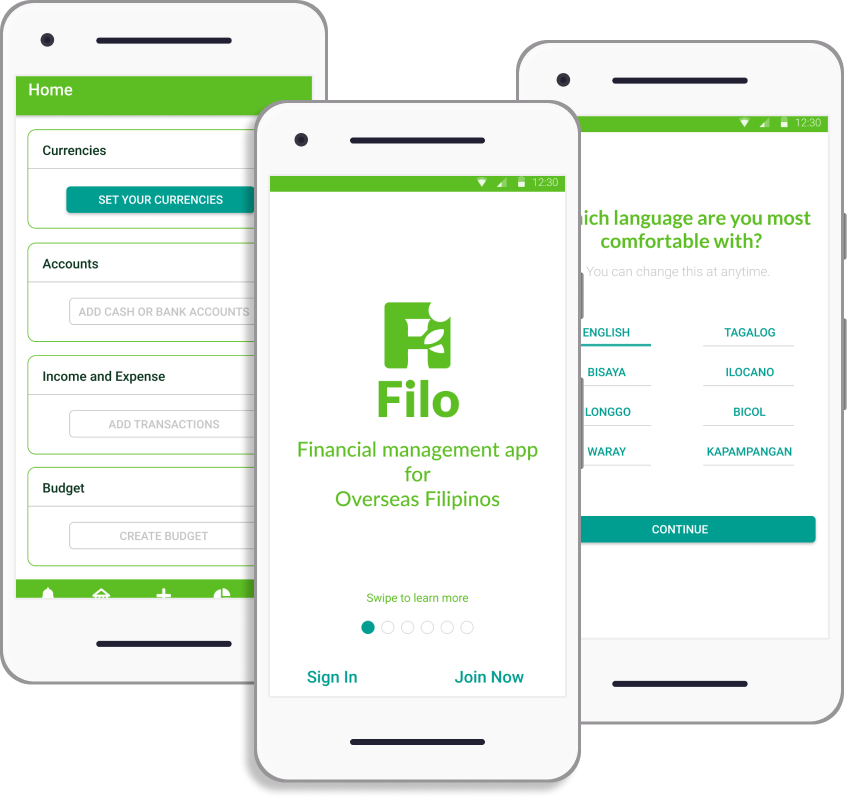
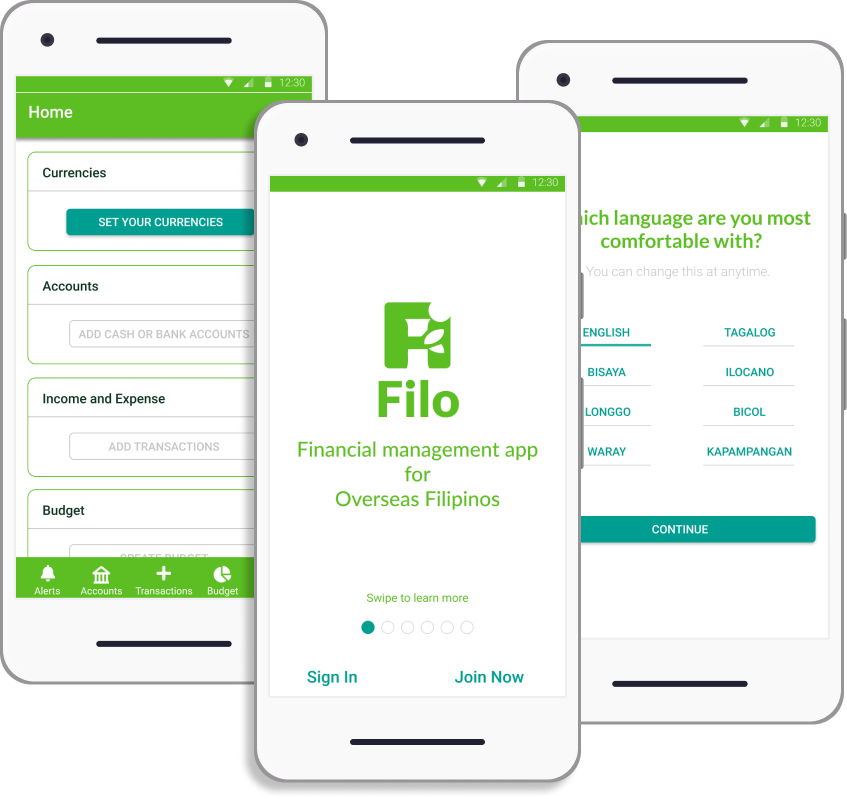
Filo: Fixed branding to testing images + buttons.

Changed region(s): [[0.0, 0.0901, 0.3684, 0.7509]]

diff --git a/filo.html b/filo.html
@@ -532,7 +532,7 @@
           </p>
 
           <!-- Button -->
-          <a href="https://docs.google.com/document/d/1Rorhu40SMTFJAB_dLQRw4ZjjH-4i4mSKrMCVeI2U9Ts/edit?usp=sharing" target="_blank" class="button">See Full Documentation</a><br><br>
+          <a href="https://docs.google.com/document/d/1Rorhu40SMTFJAB_dLQRw4ZjjH-4i4mSKrMCVeI2U9Ts/edit?usp=sharing" target="_blank" class="button laptop_view">See Full Documentation</a>
         </div>
 
       </div>
@@ -559,6 +559,9 @@
       <div class="row">
         <!-- Image first Column  -->
         <div class="six columns subsection project-img"><img src="images/typography_darkgrey.png" class="showcase-img">
+
+        <!-- Button -->
+        <a href="https://docs.google.com/document/d/1Rorhu40SMTFJAB_dLQRw4ZjjH-4i4mSKrMCVeI2U9Ts/edit?usp=sharing" target="_blank" class="button mobile_view">See Full Branding Documentation</a><br><br>
         </div>
 
         <!-- Text first Column  -->
@@ -568,10 +571,6 @@
           Lato, on the other hand, was chosen for the logo and headings due to its semi-rounded details that gives a feeling of warmth, while its strong structure provides stability and seriousness which is apt for the purpose of the app.
           <br><br>
           </p>
-
-          <!-- Button: Maze link doesn't seem to open outside my own login-->
-          <!-- <a href="https://maze.design/projects/749025/mazes/749115" target="_blank" class="button">See Details</a><br><br>
-        </div> -->
 
         </div>
       </div>
@@ -614,7 +613,7 @@
       </div>
 
       <!-- Image 2nd Column  -->
-      <div class="six columns subsection"><img src="images/mockups.png" class="showcase-img">
+      <div class="six columns subsection"><img src="images/filo_2screens.png" class="showcase-img">
       </div>
     </div>
   </div>
@@ -623,7 +622,7 @@
   <div class="container">
     <div class="row">
       <!-- Image first Column  -->
-      <div class="six columns subsection project-img"><img src="images/preference_test.png" class="showcase-img">
+      <div class="six columns subsection project-img"><img src="images/preference_test-v3.png" class="showcase-img">
       </div>
 
       <!-- Text first Column  -->
@@ -671,11 +670,14 @@
           </p>
 
           <!-- Button -->
-          <a href="https://www.figma.com/proto/DgxU1aegnhDcYGrix7ZTG9dC/Filo-Mockup-2019-05?node-id=328%3A0&viewport=390%2C787%2C0.39023709297180176&scaling=scale-down" target="_blank" class="button">See Final Prototype</a><br><br>
+          <a href="https://www.figma.com/proto/DgxU1aegnhDcYGrix7ZTG9dC/Filo-Mockup-2019-05?node-id=328%3A0&viewport=390%2C787%2C0.39023709297180176&scaling=scale-down" target="_blank" class="button laptop_view">See Final Prototype</a>
         </div>
 
         <!-- Image 2nd Column  -->
-        <div class="six columns subsection"><img src="images/final_test_trans.png" class="showcase-img">
+        <div class="six columns subsection"><img src="images/final_test_trans-v2.png" class="showcase-img">
+
+        <!-- Button -->
+        <a href="https://www.figma.com/proto/DgxU1aegnhDcYGrix7ZTG9dC/Filo-Mockup-2019-05?node-id=328%3A0&viewport=390%2C787%2C0.39023709297180176&scaling=scale-down" target="_blank" class="button mobile_view">See Final Prototype</a><br><br>
         </div>
       </div>
     </div>

diff --git a/index.html b/index.html
@@ -78,7 +78,7 @@
             <a href="filo.html" class="button laptop_view">View Case Study</a>
           </div>
 
-          <div class="seven columns" style="margin-top: 5%"><img src="images/filo_2mobile.png" class="showcase-img">
+          <div class="seven columns" style="margin-top: 5%"><img src="images/filo_2screens.png" class="showcase-img">
           <a href="filo.html" class="button mobile_view">View Case Study</a>
           </div>
         </div>
